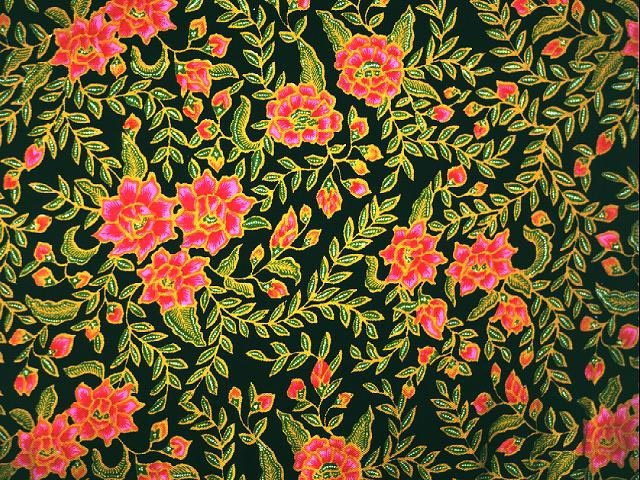
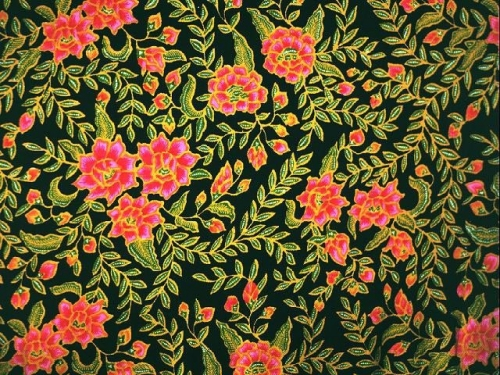
Downsized kinship page images for space.

Changed region(s): [[0.57, 0.44, 0.6, 0.4693], [0.36, 0.6453, 0.39, 0.6747], [0.33, 0.9973, 0.36, 1.0]]

diff --git a/neocities-boothworldindustries/Main/Abt/Kinship/imaginarylivingbody.html b/neocities-boothworldindustries/Main/Abt/Kinship/imaginarylivingbody.html
@@ -156,9 +156,9 @@ border: 3px rgb(177, 43, 2) ridge;
 
         <table>
           <tr>
-          <td><img src="/Main/Abt/Kinship/Photos/mannequin.png" width="100" id="image01"><br><center><mark><b><i><u>Mannequins</u></i></b></mark></center></td>
+          <td><img src="/Main/Abt/Kinship/Photos/mannequin.jpg" width="100" id="image01"><br><center><mark><b><i><u>Mannequins</u></i></b></mark></center></td>
           <td id="scroll3"><p><mark><b>Mannequins are blank canvases meant to display beauty from the fabric they dawn on their plastic bodies. In the modern eye, many are unsettled by mannequins for such a human appearance. My form of mannequin is more on the "human face" side then the "blank white face" side, like the photo attached. I also associate jester masks and kirigumi masks to this kin. In a more derivative sense, I view this kin as something like "walking fabric" or something impersonating a human, but not supernatural or tragic in origin exactly. Just something watching, something playful and mute. An admirable avatar of silicon simultaneously of beauty while being exempt from humans.<br>
-            <img src="/Main/Abt/Kinship/Photos/mannequin1.png" width="105"><img src="/Main/Abt/Kinship/Photos/mannequin2.png" width="120"><img src="/Main/Abt/Kinship/Photos/mannequin3.png" width="85"><img src="/Main/Abt/Kinship/Photos/mannequin4.png" width="110"><img src="/Main/Abt/Kinship/Photos/mannequin5.png" width="80">
+            <img src="/Main/Abt/Kinship/Photos/mannequin1.jpg" width="105"><img src="/Main/Abt/Kinship/Photos/mannequin2.jpg" width="120"><img src="/Main/Abt/Kinship/Photos/mannequin3.jpg" width="85"><img src="/Main/Abt/Kinship/Photos/mannequin4.jpg" width="110"><img src="/Main/Abt/Kinship/Photos/mannequin5.jpg" width="80">
             <u>Associated Places/Feelings:</u> Department stores, glass shelves, fruity scents, smell of a closet, thrift stores. <br><br><u>Associated Music:</u> <a href="https://youtu.be/8ecGNMhjZPk?si=ByQ6HyhfRuzrzow7">Ulterior Motives</a>, <a href="https://youtu.be/owJEf_5BYdA?si=Hd5KEf1sqS8eGnwQ">Supermodel</a>, <a href="https://youtu.be/sEK-_jk9GdU?si=HEAKbYRv_RJ2hQEX">Hey Pretty</a>, <a href="https://youtu.be/8Y1F3_EJ3Ew?si=6EKwFyoX5lmuLIXE">Jazzy Night</a>, <a href="https://youtu.be/Bfurc6KcMwk?si=6W4rxusBzieK-Ijk">Liquid Smooth</a>. <br><br><u>Associated Kin:</u> Dora Smarmy (CB), Shaye Saint John, Puppet (FNAF), Francis Clara Censordoll (MO), Mafuyu Asahina (PSJK)</b></mark></p></td>
           </tr>
         </table>
@@ -166,17 +166,17 @@ border: 3px rgb(177, 43, 2) ridge;
         <table>
           <tr>
           <td id="scroll2"><p><mark style="background-color: #9ce657"><b>Ghosts are entities that have had many names across time and culture. But are commonly said to be visitors from the afterlife, or a mournful spirit unable to move onto peace. I personally feel more of the loneliness aspect of ghosts; haunting and observing and longing for humanity again. A sort of watcher and strange visitor you brought home with that vintage lamp you purchased. I always found it odd people believe ghosts to be violent or scary creatures, maybe if you just tried to understand them.<br>
-            <img src="/Main/Abt/Kinship/Photos/ghost1.png" width="100"><img src="/Main/Abt/Kinship/Photos/ghost2.png" width="100"><img src="/Main/Abt/Kinship/Photos/ghost3.png" width="100"><img src="/Main/Abt/Kinship/Photos/ghost4.png" width="100"><img src="/Main/Abt/Kinship/Photos/ghost5.png" width="100">
+            <img src="/Main/Abt/Kinship/Photos/ghost1.jpg" width="100"><img src="/Main/Abt/Kinship/Photos/ghost2.jpg" width="100"><img src="/Main/Abt/Kinship/Photos/ghost3.jpg" width="100"><img src="/Main/Abt/Kinship/Photos/ghost4.jpg" width="100"><img src="/Main/Abt/Kinship/Photos/ghost5.jpg" width="100">
             <u>Associated Places/Feelings:</u> Empty houses, angel statues, natural bodies of water, overgrown things, mirrors. <br><br><u>Associated Music:</u> <a href="https://youtu.be/-T2UeKKac-s?si=8yD4UK27eC4TG_zo">Dying Swan</a>, <a href="https://youtu.be/Q-I7Deuxm1k?si=FREyHDPHtlB4DTO5">Concertina Ballerina</a>, <a href="https://youtu.be/Me4xztuibWI?si=Xh36H89q8DNDZB7Y">Past Friends Re-United</a>, <a href="https://youtu.be/3WJKiUW3kOI?si=6MMDjLCS_tkEFs1E">You Are The Moon</a>, <a href="https://youtu.be/SN4D2EOY6ks?si=inNwFPtGrXVLWtHU">Aphrodite of Death</a>. <br><br><u>Associated Kin:</u> Homura Akemi (MM), Mikage Souji, Anthy Himemiya (RGU), Emily (Corpse Bride), Puppet (FNAF), Grey Man (LSDDE)</b></mark></p></td>
-          <td><img src="/Main/Abt/Kinship/Photos/ghost.png" width="100" id="image01"><br><center><mark style="background-color: #fa335e"><b><i><u>Ghosts</u></i></b></mark></center></td>
+          <td><img src="/Main/Abt/Kinship/Photos/ghost.jpg" width="100" id="image01"><br><center><mark style="background-color: #fa335e"><b><i><u>Ghosts</u></i></b></mark></center></td>
           </tr>
         </table>
 
         <table>
           <tr>
-          <td><img src="/Main/Abt/Kinship/Photos/cogs.png" width="100" id="image01"><br><center><mark style="background-color: rgb(148, 49, 173); color: rgb(1, 0, 82);"><b><i><u>Cogs/Robots</u></i></b></mark></center></td>
+          <td><img src="/Main/Abt/Kinship/Photos/cogs.jpg" width="100" id="image01"><br><center><mark style="background-color: rgb(148, 49, 173); color: rgb(1, 0, 82);"><b><i><u>Cogs/Robots</u></i></b></mark></center></td>
           <td id="scroll1"><p><mark style="background-color: #e22d2d"><b>The Cogs are the antagonists of the MMO game "Toontown Online". The Cogs, in their original form, are business-men-like robots that're taking over Toontown by making the world grey and sad. They are split into four departments: Sellbot, Cashbot, Lawbot, and Bossbot; and all named after corporate terms like "Big Cheese" or "Yesmen". Since the original TTO has been taken offline, various new private servers have expanded upon the Cogs with new departments and character. I personally heavily drift towards <u>Bossbot</u> and some <u>Lawbot</u>. Although I am kin with robots and computers as a whole, Cogs are the best representation towards mine. Human-like but clearly off, sarcastic and blunt, and even sleazy with a dash of vintage corporate.<br>
-            <img src="/Main/Abt/Kinship/Photos/cogs1.png" width="100"><img src="/Main/Abt/Kinship/Photos/cogs2.png" width="100"><img src="/Main/Abt/Kinship/Photos/cogs3.png" width="100"><img src="/Main/Abt/Kinship/Photos/cogs4.png" width="100"><img src="/Main/Abt/Kinship/Photos/cogs5.png" width="100">
+            <img src="/Main/Abt/Kinship/Photos/cogs1.jpg" width="100"><img src="/Main/Abt/Kinship/Photos/cogs2.jpg" width="100"><img src="/Main/Abt/Kinship/Photos/cogs3.jpg" width="100"><img src="/Main/Abt/Kinship/Photos/cogs4.jpg" width="100"><img src="/Main/Abt/Kinship/Photos/cogs5.jpg" width="100">
             <u>Associated Places/Feelings:</u> Cityscapes, office software,  80s-90s office fashion, pre-2000s UI.<br><br><u>Associated Music:</u> <a href="https://youtu.be/FLJAcMysEgg?si=Xn_RA39e8m13LeIz">Private Life</a>, <a href="https://youtu.be/dwlfUv5fBs0?si=BlywbfnxW9ueVXk7">Cool City</a>, <a href="https://youtu.be/thawgENlbGM?si=IpoaoRj8TRpNWA3t">Sleaze</a>, <a href="https://youtu.be/YixAD9GIAuY?si=e4SSg1y1B8iEWpjU">4:00 AM</a>, <a href="https://youtu.be/puaPTW0DjqA?si=bx7kaBNlcONsooR7">S.W.A.K.</a>, <a href="https://youtu.be/Km5BbAFfPVQ?si=kKvlcIF18ZxPM22l">Cutting Edge</a>. (Or anything by Luxury Elite in general) <br><br><u>Associated Kin:</u> Flint Bonpyre, Thomas Saggs, Barry Brief, (TTCC), Club President (TTR), GLaDOS (Portal), Dora Smarmy (CB)</b></mark></p></td>
           </tr>
         </table>
@@ -184,9 +184,9 @@ border: 3px rgb(177, 43, 2) ridge;
         <table>
           <tr>
           <td id="scroll3"><p><mark><b>This one is more oddly specific, some might call this something like "conceptkin" but I like to call it "online friend" or "haunted entity". It goes something along the lines of stories like <a href="https://youtu.be/KayFaePrQ1o?si=mTWN0Wt1zAx8tjJW">Chatroom 98</a>, <a href="https://youtu.be/YGePo26mXSg?si=F8A9UBBKLYlLg4aJ">Funnymouth</a>, or <a href="https://youtu.be/7iFXyLah2oQ?si=Zwme1vqulOFc0l7G">Username 666</a>. Some type of entity on the web, possibly a ghost, or something haunting a video game. Those stories of weird characters appearing in games with glitched textures. Or someones spirit in a chatroom. Some people compare the internet to a large future graveyard, that will be full of more dead people then alive; if its not already. And whose not to say that I am a real person online anyways, when was the last time yours appeared online? Should you check that old server again, just to see? You shouldn't click links from strangers, but your online friend isn't.
-           <br><img src="/Main/Abt/Kinship/Photos/entity1.png" width="100"> <img src="/Main/Abt/Kinship/Photos/entity2.png" width="100"> <img src="/Main/Abt/Kinship/Photos/entity3.png" width="100"> <img src="/Main/Abt/Kinship/Photos/entity4.png" width="80"> <img src="/Main/Abt/Kinship/Photos/entity5.png" width="100"><br><br>
+           <br><img src="/Main/Abt/Kinship/Photos/entity1.jpg" width="100"> <img src="/Main/Abt/Kinship/Photos/entity2.jpg" width="100"> <img src="/Main/Abt/Kinship/Photos/entity3.jpg" width="100"> <img src="/Main/Abt/Kinship/Photos/entity4.jpg" width="80"> <img src="/Main/Abt/Kinship/Photos/entity5.jpg" width="100"><br><br>
            <u>Associated Kin:</u> Powderface.jpg, Smile.jpg, 404-san (Lomando), Uboa (YN), Grey Man (LSDDE)</b></mark></p></td>
-          <td><img src="/Main/Abt/Kinship/Photos/haunted.png" width="100" id="image01"><br><center><mark><b><i><u>Haunted Entity</u></i></b></mark></center></td>
+          <td><img src="/Main/Abt/Kinship/Photos/haunted.jpg" width="100" id="image01"><br><center><mark><b><i><u>Haunted Entity</u></i></b></mark></center></td>
           </tr>
         </table>
 
@@ -200,91 +200,91 @@ border: 3px rgb(177, 43, 2) ridge;
 
         <table>
           <tr>
-          <td><img src="/Main/Abt/Kinship/Photos/clubprez.png" width="100" id="image01"><br>
+          <td><img src="/Main/Abt/Kinship/Photos/clubprez.jpg" width="100" id="image01"><br>
           <center><mark style="background-color: rgb(248, 154, 32); color: rgb(1, 0, 82); font-family: Times New Roman, serif;"><b><i><u>Club President</u></i></b></mark></center></td>
           </tr>
         </table>
 
         <table>
           <tr>
-          <td><img src="/Main/Abt/Kinship/Photos/flint.png" width="100" id="image01"><br>
+          <td><img src="/Main/Abt/Kinship/Photos/flint.jpg" width="100" id="image01"><br>
           <center><mark style="background-color: rgb(248, 154, 32); color: rgb(1, 0, 82); font-family: Times New Roman, serif;"><b><i><u>Flint Bonpyre</u></i></b></mark></center></td>
           </tr>
         </table>
 
         <table>
           <tr>
-          <td><img src="/Main/Abt/Kinship/Photos/thomas.png" width="100" id="image01"><br>
+          <td><img src="/Main/Abt/Kinship/Photos/thomas.jpg" width="100" id="image01"><br>
           <center><mark style="background-color: rgb(248, 154, 32); color: rgb(1, 0, 82); font-family: Times New Roman, serif;"><b><i><u>Thomas Saggs</u></i></b></mark></center></td>
           </tr>
         </table>
 
         <table>
           <tr>
-          <td><img src="/Main/Abt/Kinship/Photos/censordoll.png" width="100" id="image01"><br>
+          <td><img src="/Main/Abt/Kinship/Photos/censordoll.jpg" width="100" id="image01"><br>
           <center><mark style="background-color: rgb(248, 154, 32); color: rgb(1, 0, 82); font-family: Times New Roman, serif;"><b><i><u>Francis Clara<br>Censordoll</u></i></b></mark></center></td>
           </tr>
         </table>
 
         <table>
           <tr>
-          <td><img src="/Main/Abt/Kinship/Photos/homura.png" width="100" id="image01"><br>
+          <td><img src="/Main/Abt/Kinship/Photos/homura.jpg" width="100" id="image01"><br>
           <center><mark style="background-color: rgb(248, 154, 32); color: rgb(1, 0, 82); font-family: Times New Roman, serif;"><b><i><u>Homura Akemi</u></i></b></mark></center></td>
           </tr>
         </table>
 
         <table>
           <tr>
-          <td><img src="/Main/Abt/Kinship/Photos/lady.png" width="100" id="image01"><br>
+          <td><img src="/Main/Abt/Kinship/Photos/lady.jpg" width="100" id="image01"><br>
           <center><mark style="background-color: rgb(248, 154, 32); color: rgb(1, 0, 82); font-family: Times New Roman, serif;"><b><i><u>Lady Amalthea</u></i></b></mark></center></td>
           </tr>
         </table>
 
         <table>
           <tr>
-          <td><img src="/Main/Abt/Kinship/Photos/mortality.png" width="100" id="image01"><br>
+          <td><img src="/Main/Abt/Kinship/Photos/mortality.jpg" width="100" id="image01"><br>
           <center><mark style="background-color: rgb(248, 154, 32); color: rgb(1, 0, 82); font-family: Times New Roman, serif;"><b><i><u>Mortality</u></i></b></mark></center></td>
           </tr>
         </table>
 
         <table>
           <tr>
-          <td><img src="/Main/Abt/Kinship/Photos/dude.png" width="100" id="image01"><br>
+          <td><img src="/Main/Abt/Kinship/Photos/dude.jpg" width="100" id="image01"><br>
           <center><mark style="background-color: rgb(248, 154, 32); color: rgb(1, 0, 82); font-family: Times New Roman, serif;"><b><i><u>Dude (1997/2003)</u></i></b></mark></center></td>
           </tr>
         </table>
 
         <table>
           <tr>
-          <td><img src="/Main/Abt/Kinship/Photos/warden.png" width="100" id="image01"><br>
+          <td><img src="/Main/Abt/Kinship/Photos/warden.jpg" width="100" id="image01"><br>
           <center><mark style="background-color: rgb(248, 154, 32); color: rgb(1, 0, 82); font-family: Times New Roman, serif;"><b><i><u>Harry Warden</u></i></b></mark></center></td>
           </tr>
         </table>
 
         <table>
           <tr>
-          <td><img src="/Main/Abt/Kinship/Photos/shaye.png" width="100" id="image01"><br>
+          <td><img src="/Main/Abt/Kinship/Photos/shaye.jpg" width="100" id="image01"><br>
           <center><mark style="background-color: rgb(248, 154, 32); color: rgb(1, 0, 82); font-family: Times New Roman, serif;"><b><i><u>Shaye Saint John</u></i></b></mark></center></td>
           </tr>
         </table>
 
         <table>
           <tr>
-          <td><img src="/Main/Abt/Kinship/Photos/vera.png" width="100" id="image01"><br>
+          <td><img src="/Main/Abt/Kinship/Photos/vera.jpg" width="100" id="image01"><br>
           <center><mark style="background-color: rgb(248, 154, 32); color: rgb(1, 0, 82); font-family: Times New Roman, serif;"><b><i><u>Vera Misham</u></i></b></mark></center></td>
           </tr>
         </table>
 
         <table>
           <tr>
-          <td><img src="/Main/Abt/Kinship/Photos/mikage.png" width="100" id="image01"><br>
+          <td><img src="/Main/Abt/Kinship/Photos/mikage.jpg" width="100" id="image01"><br>
           <center><mark style="background-color: rgb(248, 154, 32); color: rgb(1, 0, 82); font-family: Times New Roman, serif;"><b><i><u>Mikage Souji</u></i></b></mark></center></td>
           </tr>
         </table>
 
         <table>
           <tr>
-          <td><img src="/Main/Abt/Kinship/Photos/glados.png" width="100" id="image01"><br>
+          <td><img src="/Main/Abt/Kinship/Photos/glados.jpg" width="100" id="image01"><br>
           <center><mark style="background-color: rgb(248, 154, 32); color: rgb(1, 0, 82); font-family: Times New Roman, serif;"><b><i><u>GLaDOS</u></i></b></mark></center></td>
           </tr>
         </table>
@@ -295,7 +295,7 @@ border: 3px rgb(177, 43, 2) ridge;
 
         <table>
           <tr>
-          <td><img src="/Main/Abt/Kinship/Photos/undead.png" width="100" id="image01"><br><center><mark style="background-color: #fa335e"><b><i><u>Zombies</u></i></b></mark></center></td>
+          <td><img src="/Main/Abt/Kinship/Photos/undead.jpg" width="100" id="image01"><br><center><mark style="background-color: #fa335e"><b><i><u>Zombies</u></i></b></mark></center></td>
           <td id="scroll2"><p><mark style="background-color: #9ce657"><b>Where zombies different from ghosts is their psychical presence. A corpse somehow reanimated without a motion of movement from the heart in their chest. My feeling of zombie isn't a mindless entity, but more of something in-between life and death; and something akin to a jester with a hint of tragedy. I would also say that I associate with "Frankenstein"-like creatures, I like to personally refer to them as "patchwork monsters". Deaths a big party, and everyones invited!
             <br><br><u>Associated Places/Feelings:</u> Cold weather just before dark after its rained,  stitching/patchwork, abandoned places.<br><br><u>Associated Music:</u> <a href="https://youtu.be/yhN8SdulOFc?si=RIjc78rbm2fTIRTW">Dead Man's Party</a>, <a href="https://youtu.be/d1itZiNY5pY?si=qJsFlAMUfQ8GukdZ">The Boogie Man</a>, <a href="https://youtu.be/6frC9pzzQ8M?si=Z79YHz0hwmx8T5u1">A Cold Freezin' Night</a>, <a href="https://youtu.be/WpbpNH3xEfg?si=ih93aBT52HM_n0cd">My Bloody Valentine</a>, <a href="https://youtu.be/6gyF_5GBMj0?si=VKHPN9dz8AnjctUM">No One Lives Forever</a>. <br><br><u>Associated Kin:</u> Forsaken (WOW), Sally (TNBC), Renfield (Dracula), Mortality (TWF), Ghoulia Yelps (MH), Harry Warden (MBV)</b></mark></p></td>
           </tr>
@@ -311,49 +311,49 @@ border: 3px rgb(177, 43, 2) ridge;
 
         <br><br><table>
           <tr>
-          <td><img src="/Main/Abt/Kinship/Photos/barry.png" width="100" id="image01"><br>
+          <td><img src="/Main/Abt/Kinship/Photos/barry.jpg" width="100" id="image01"><br>
           <center><mark><b><i><u>Barry Brief</u></i></b></mark></center></td>
           </tr>
         </table>
 
         <table>
           <tr>
-          <td><img src="/Main/Abt/Kinship/Photos/jeanne.png" width="100" id="image01"><br>
+          <td><img src="/Main/Abt/Kinship/Photos/jeanne.jpg" width="100" id="image01"><br>
           <center><mark><b><i><u>Jeanne</u></i></b></mark></center></td>
           </tr>
         </table>
 
         <table>
           <tr>
-          <td><img src="/Main/Abt/Kinship/Photos/tweedy.png" width="100" id="image01"><br>
+          <td><img src="/Main/Abt/Kinship/Photos/tweedy.jpg" width="100" id="image01"><br>
           <center><mark><b><i><u>Mrs. Tweedy</u></i></b></mark></center></td>
           </tr>
         </table>
 
         <table>
           <tr>
-          <td><img src="/Main/Abt/Kinship/Photos/moira.png" width="100" id="image01"><br>
+          <td><img src="/Main/Abt/Kinship/Photos/moira.jpg" width="100" id="image01"><br>
           <center><mark><b><i><u>Moira O'Deorain</u></i></b></mark></center></td>
           </tr>
         </table>
 
         <table>
           <tr>
-          <td><img src="/Main/Abt/Kinship/Photos/pyro.png" width="100" id="image01"><br>
+          <td><img src="/Main/Abt/Kinship/Photos/pyro.jpg" width="100" id="image01"><br>
           <center><mark><b><i><u>Classic Pyro</u></i></b></mark></center></td>
           </tr>
         </table>
 
         <table>
           <tr>
-          <td><img src="/Main/Abt/Kinship/Photos/puppet.png" width="100" id="image01"><br>
+          <td><img src="/Main/Abt/Kinship/Photos/puppet.jpg" width="100" id="image01"><br>
           <center><mark><b><i><u>Puppet</u></i></b></mark></center></td>
           </tr>
         </table>
 
         <table>
           <tr>
-          <td><img src="/Main/Abt/Kinship/Photos/sally.png" width="100" id="image01"><br>
+          <td><img src="/Main/Abt/Kinship/Photos/sally.jpg" width="100" id="image01"><br>
           <center><mark><b><i><u>Sally</u></i></b></mark></center></td>
           </tr>
         </table>
@@ -367,14 +367,14 @@ border: 3px rgb(177, 43, 2) ridge;
 
         <table>
           <tr>
-          <td><img src="/Main/Abt/Kinship/Photos/powderface.png" width="100" id="image01"><br>
+          <td><img src="/Main/Abt/Kinship/Photos/powderface.jpg" width="100" id="image01"><br>
           <center><mark><b><i><u>Powderface.jpg</u></i></b></mark></center></td>
           </tr>
         </table>
 
         <table>
           <tr>
-          <td><img src="/Main/Abt/Kinship/Photos/smile.png" width="100" id="image01"><br>
+          <td><img src="/Main/Abt/Kinship/Photos/smile.jpg" width="100" id="image01"><br>
           <center><mark><b><i><u>Smile.jpg</u></i></b></mark></center></td>
           </tr>
         </table>
